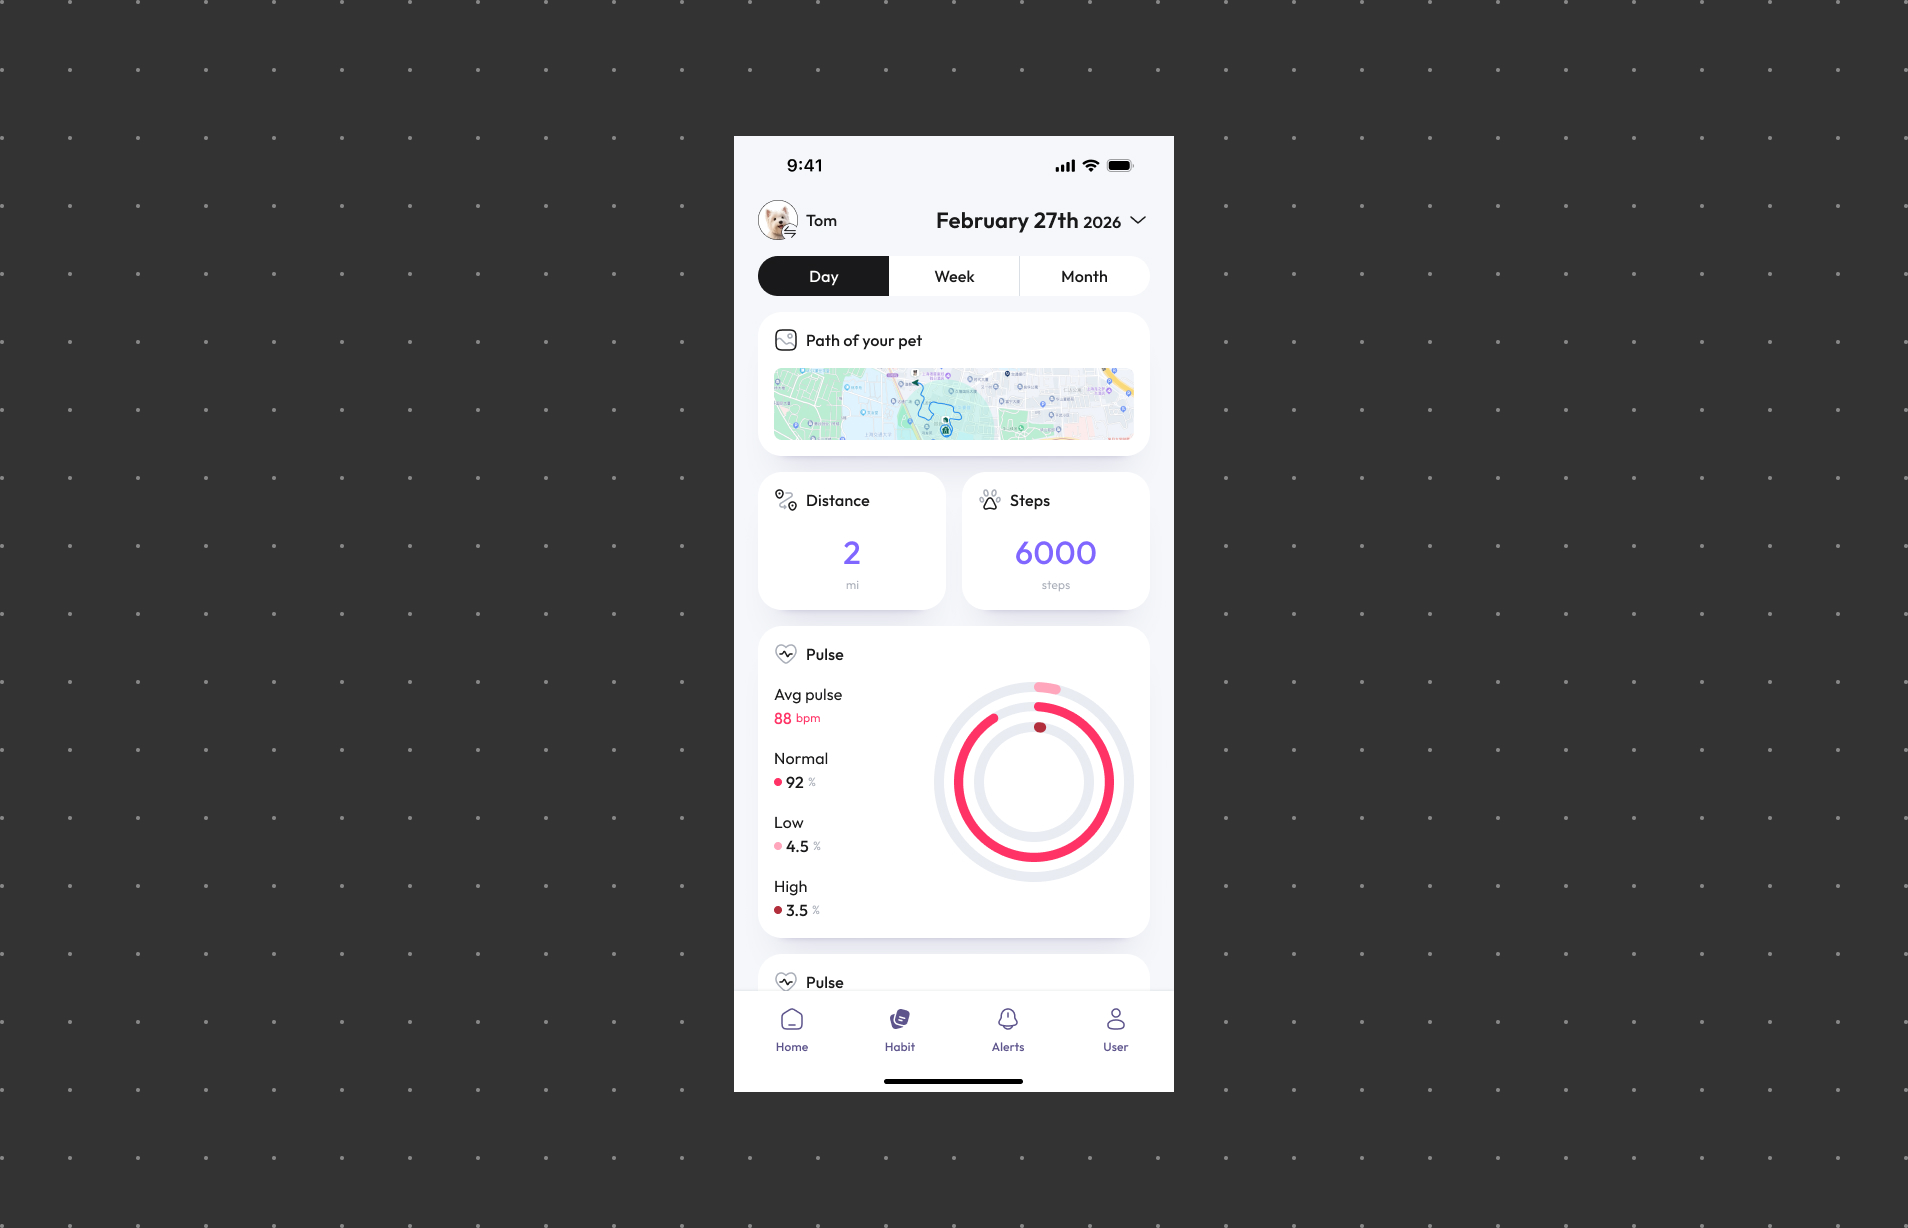
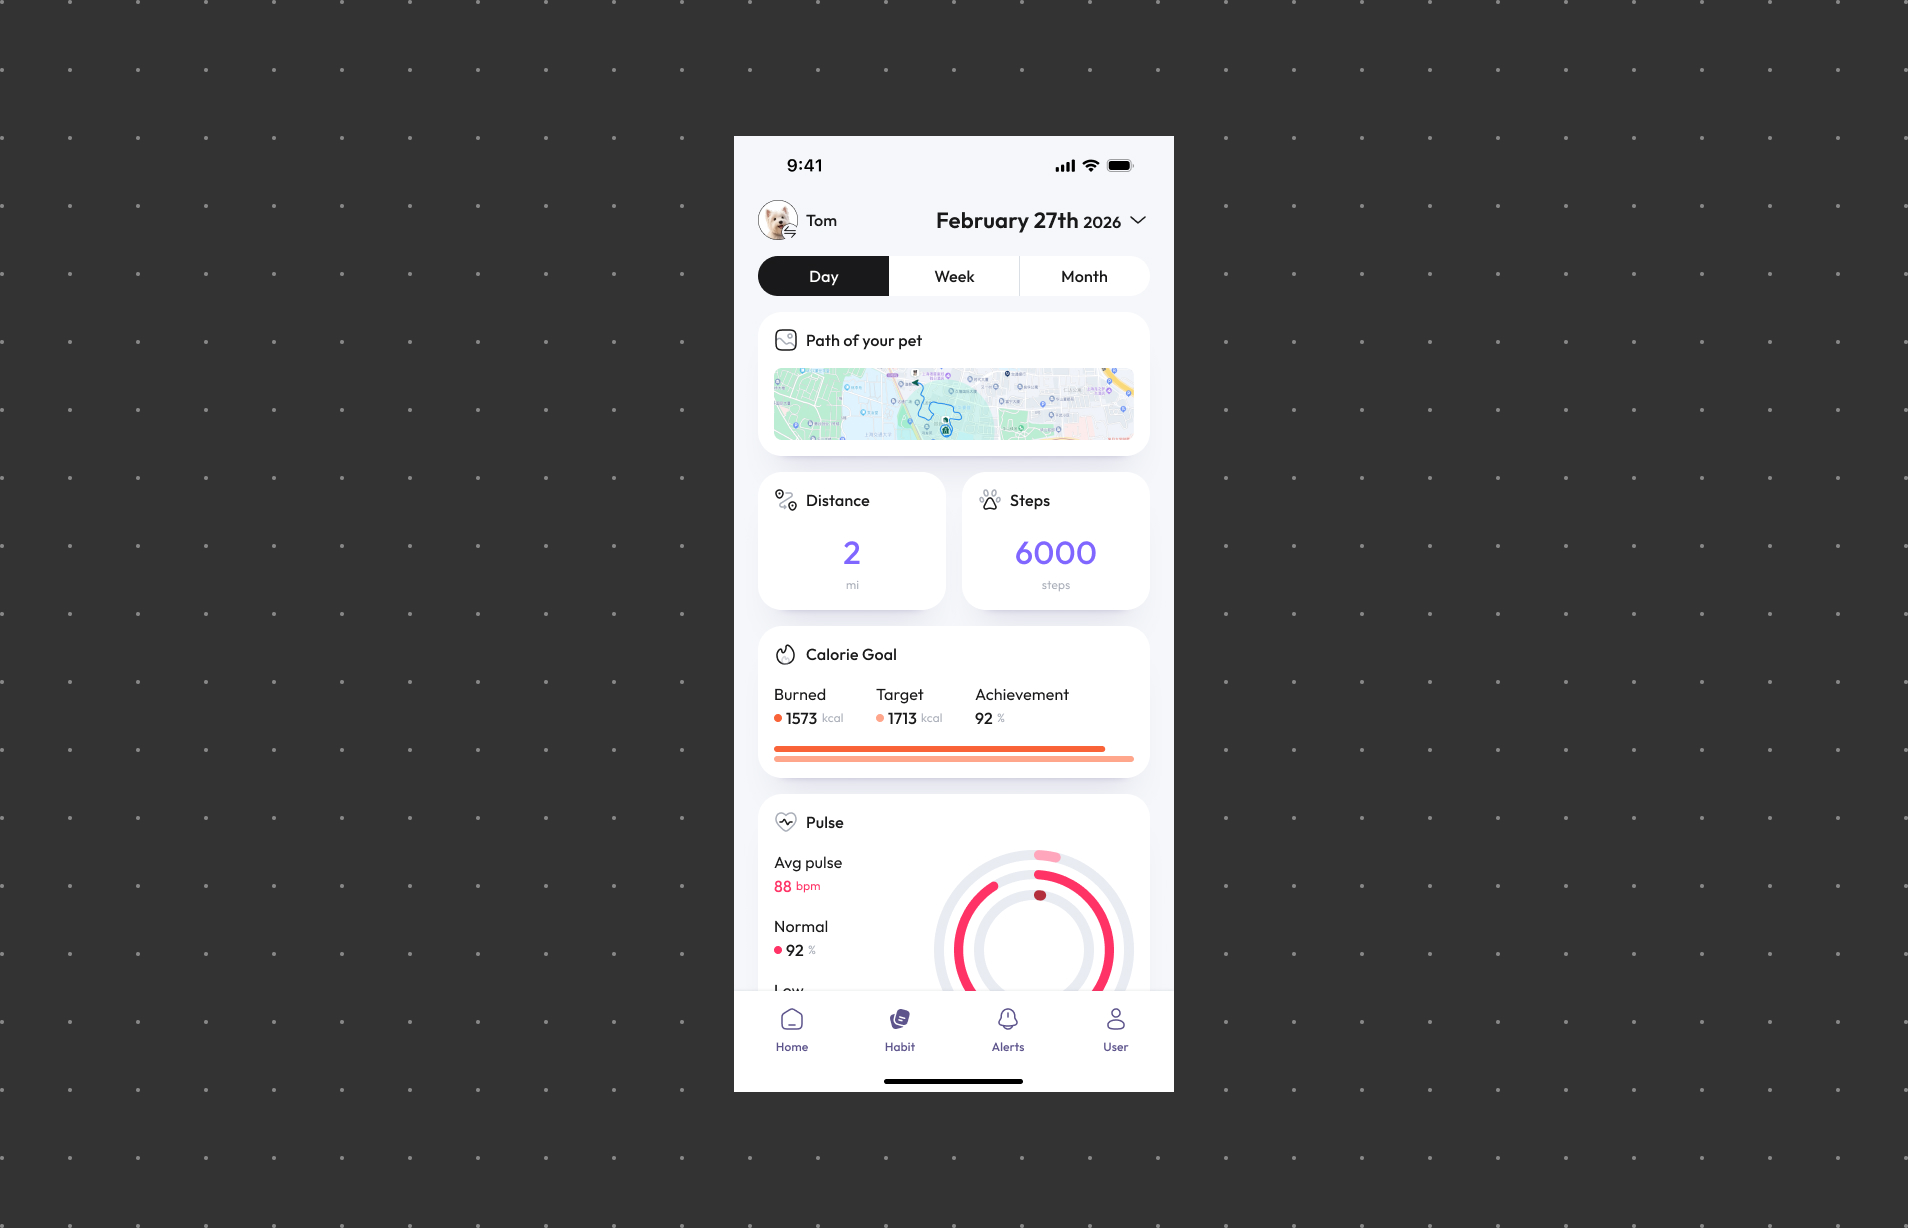
Calorie

Changed region(s): [[0.402, 0.5261, 0.5875, 0.8046]]

diff --git a/docs/petority/3_features/2_health-monitoring.md b/docs/petority/3_features/2_health-monitoring.md
@@ -38,6 +38,19 @@ With WAGGURACY's Habit Data and Location History feature, you gain a comprehensi
 
 This feature allows you to understand their movement patterns, providing insights into their exercise routines and overall lifestyle.
 
+### Calorie Goal:
+Calorie Goal helps you understand your pet's daily energy expenditure and track whether their activity level meets the recommended target.
+
+![Path](/img/health/Calorie-Goal.jpg)
+
+You can view:
++ **Burned**: The calories your pet has burned through daily activity.
++ **Target**: The recommended daily calorie-burn goal for your pet.
++ **Achievement**: The percentage of the target calories achieved.
++ **Avg Achievement**: The average goal completion rate over a period of time.
+
+By monitoring your pet's Calorie Goal regularly, you can better understand their activity level and help maintain a healthy, active lifestyle.
+
 ### Pulse Monitoring:
 Keeping an eye on your pet's heart habit is crucial. This feature empowers you to closely monitor their pulse in real-time. 
 

diff --git a/docs/devices/3-battery-charging/4_battery-performance.md b/docs/devices/3-battery-charging/4_battery-performance.md
@@ -5,11 +5,11 @@ title: Battery Performance
 
 The device boasts remarkable battery life, catering to various usage demands:
 
-- Under normal usage conditions, the device can operate continuously for **8 hours**.
+- Under normal usage conditions, the device can operate continuously for **16 hours**.
 
 	During outdoor adventures or activities, the device can sustain operations such as location tracking, pulse data collection, or communication, meeting the needs of your pet.
 
-- Standby time extends up to **12 hours**, ensuring battery longevity even during prolonged periods of non-use.
+- Standby time extends up to **72 hours**, ensuring battery longevity even during prolonged periods of non-use.
 
 	When not in active use, the device remains online and ready to receive instructions or perform monitoring tasks, ensuring you stay connected at all times.
 

diff --git a/docs/devices/3-battery-charging/1_battery-charging.md b/docs/devices/3-battery-charging/1_battery-charging.md
@@ -7,7 +7,7 @@ title: Battery Charging
 
 **Device Charging Time:**
 
-The WAGGURACY PHAST 1 takes approximately **3.35** hours to charge. Simply connect the device to a power source and wait for the charging process to complete.
+The WAGGURACY PHAST 1 takes approximately **2** hours to charge. Simply connect the device to a power source and wait for the charging process to complete.
 
 **Battery Level Alert Functionality:**
 